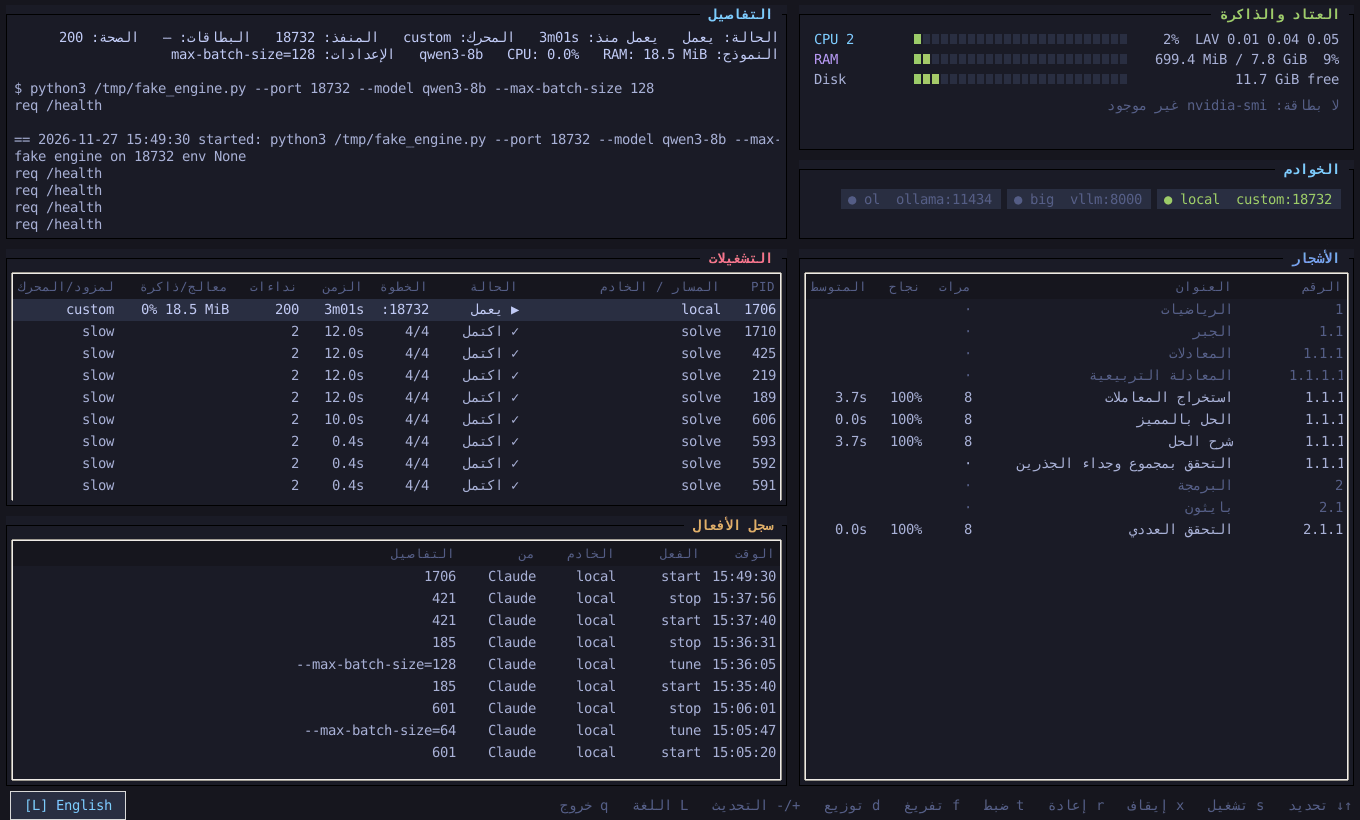
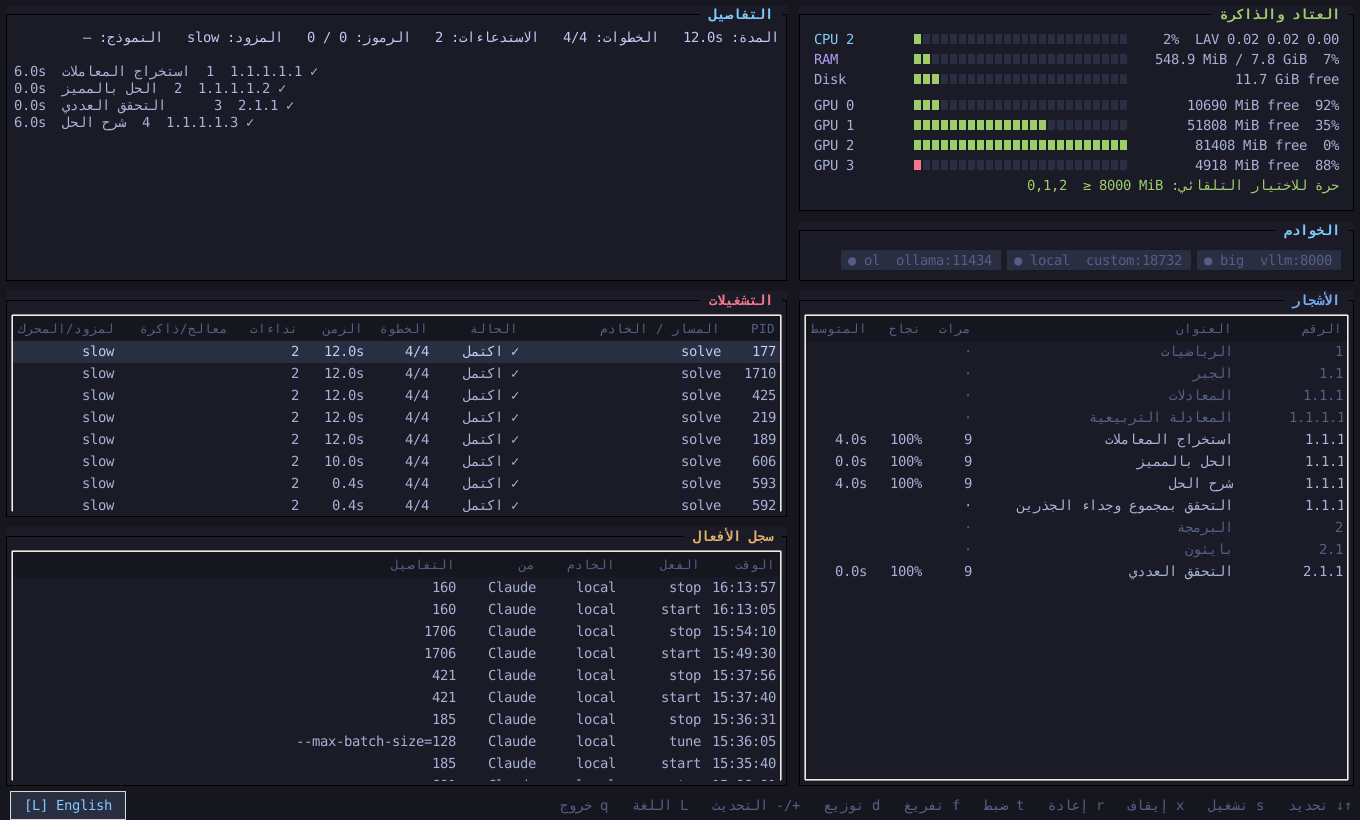
Pictures: the dashboard with four GPUs (from a stand-in nvidia-smi)
Claude-Session: https://claude.ai/code/session_01GU5AfFFLJzEcjQ6jTvENeJ

diff --git a/README.ar.md b/README.ar.md
@@ -556,6 +556,8 @@ tawjih dashboard --interval 5     # التحديث كل 5 ثوانٍ
 
 ![tawjih dashboard بالإنجليزية](docs/images/dashboard-en.png)
 
+البطاقات الأربع في هاتين الصورتين من بديل لـ `nvidia-smi`، فهذا الجهاز بلا بطاقات.
+
 ## الأوامر
 
 | الأمر | الوظيفة |

diff --git a/README.md b/README.md
@@ -605,6 +605,9 @@ too (English by default; `--arabic` is the same as `--lang ar`).
 
 ![tawjih dashboard in English](docs/images/dashboard-en.png)
 
+The four GPUs in these pictures come from a stand-in for `nvidia-smi`;
+this computer has none.
+
 ## Commands
 
 | Command | Purpose |
